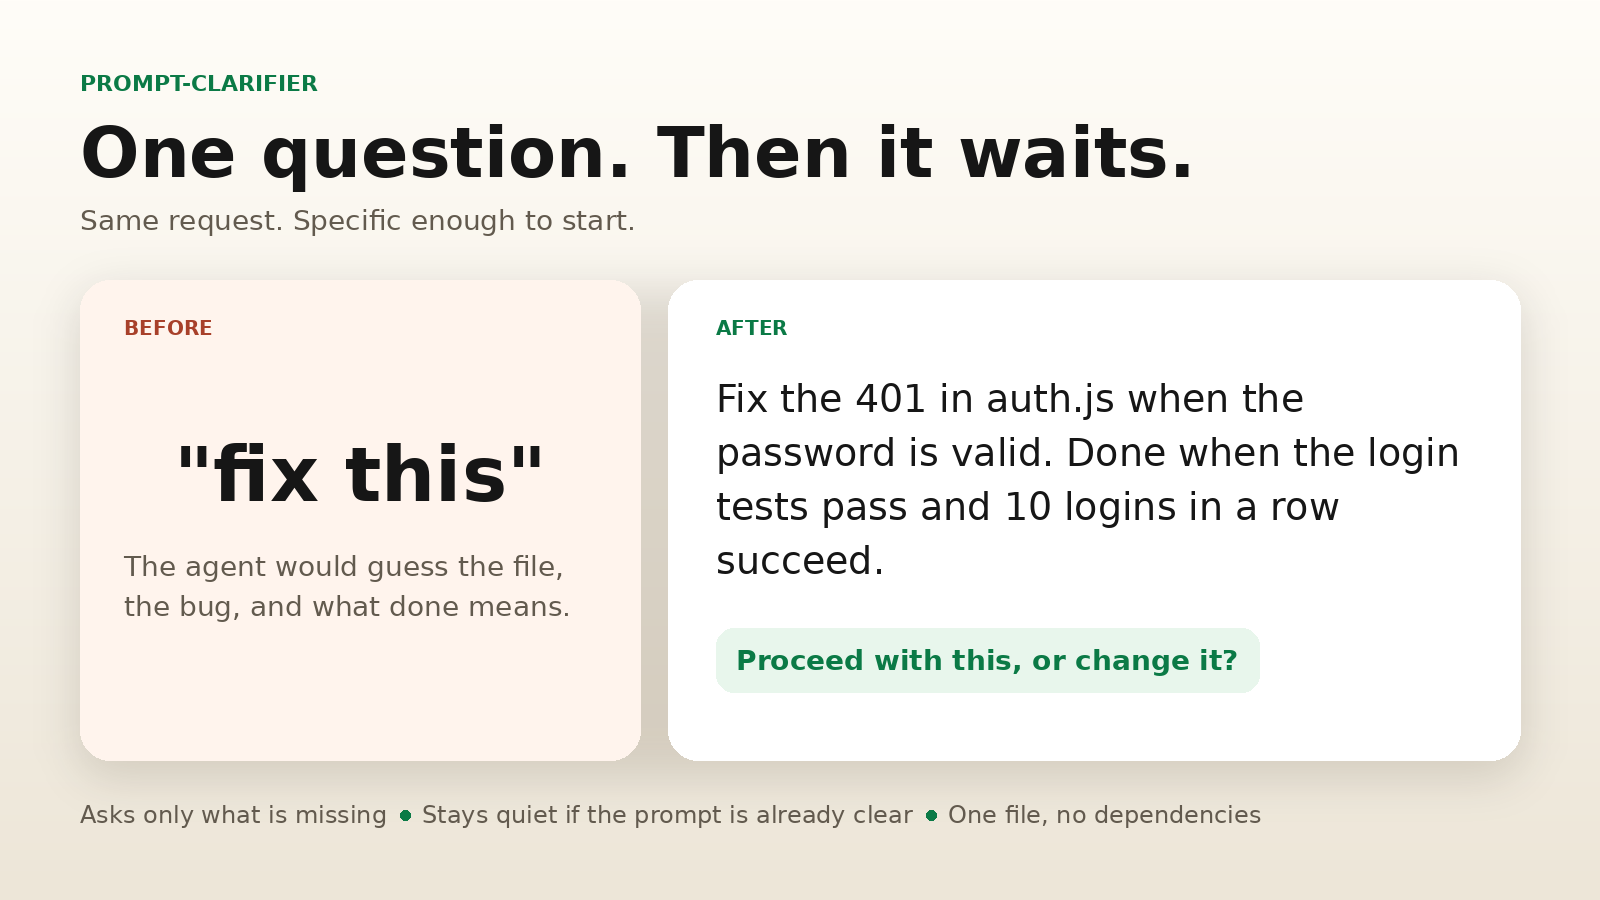
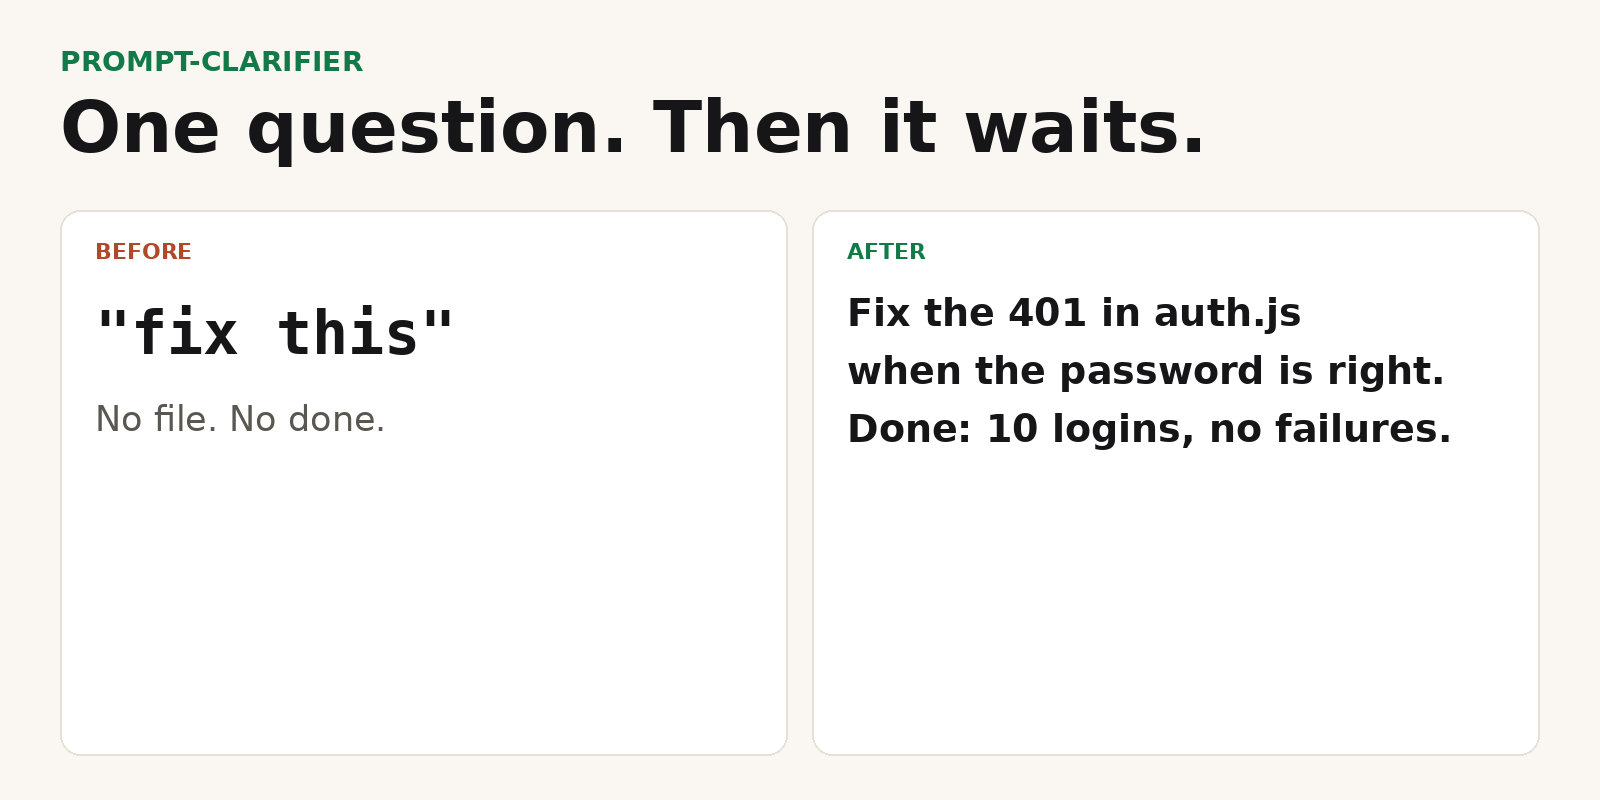
Make the before and after the first thing on the page.

Changed region(s): [[0.0, 0.0625, 1.0, 1.0], [0.5312, 0.2812, 0.9062, 0.3438]]

diff --git a/README.md b/README.md
@@ -1,22 +1,22 @@
 # prompt-clarifier
 
-A Claude Code skill for a vague prompt. Also works in Cursor and Codex.
+A Claude Code skill. A vague prompt gets one question. Then it waits.
+
+<p align="center">
+  <img src="docs/banner.png" alt="Before: fix this. After: Fix the 401 in auth.js when the password is right. Done: 10 logins, no failures." width="100%">
+</p>
+
+**Before:** "fix this"
+
+**After:** "Fix the bug in `auth.js` where login with a correct password sometimes returns 401 — looks like a race condition in token verification. Done when existing login tests pass and 10 consecutive logins don't fail once."
+
+```bash
+npx --yes skills add David-Florian2013/prompt-clarifier -g -a claude-code -y -s prompt-clarifier
+```
 
 Half of bad AI output starts with a vague prompt. "Fix this." "Make it better." "Add login." You hit enter, wait, and get something close but not quite right — then spend ten minutes explaining what you actually meant.
 
 prompt-clarifier catches that moment *before* you send it. It spots the one thing actually missing from your request — scope, target file, or what "done" means — and asks exactly that, nothing else. Clear enough already? It stays out of your way.
-
-<p align="center">
-  <img src="docs/banner.png" alt="Light card. Before: fix this. After: fix the 401 in auth.js, and wait for a yes." width="100%">
-</p>
-
-**Before:**
-
-> "fix this"
-
-**After:**
-
-> "Fix the bug in `auth.js` where login with a correct password sometimes returns 401 — looks like a race condition in token verification. Done when existing login tests pass and 10 consecutive logins don't fail once."
 
 One clarifying question instead of one wrong guess.
 
